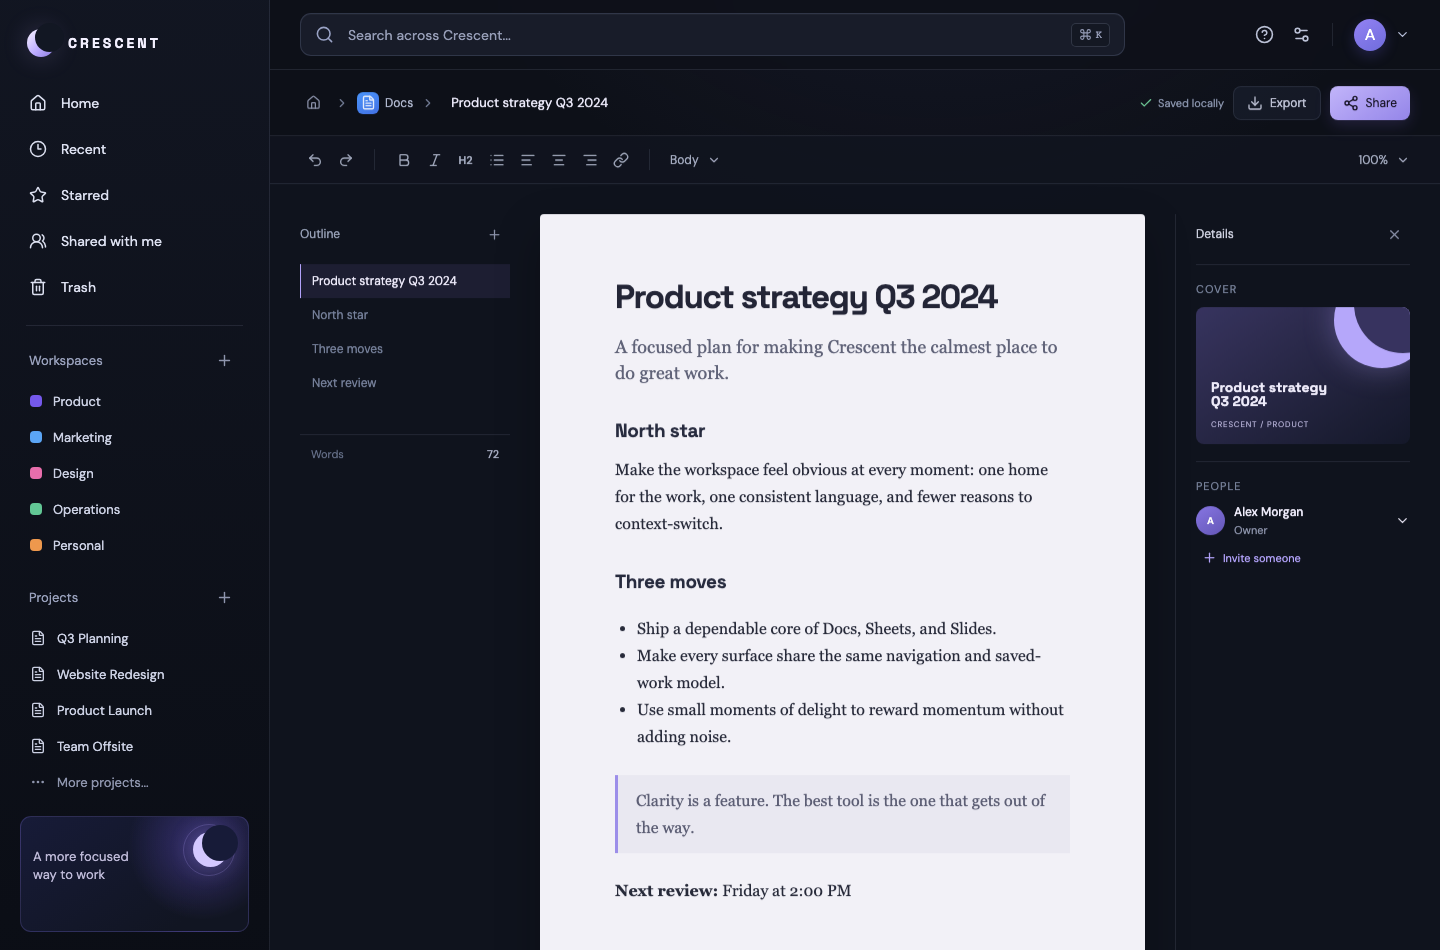
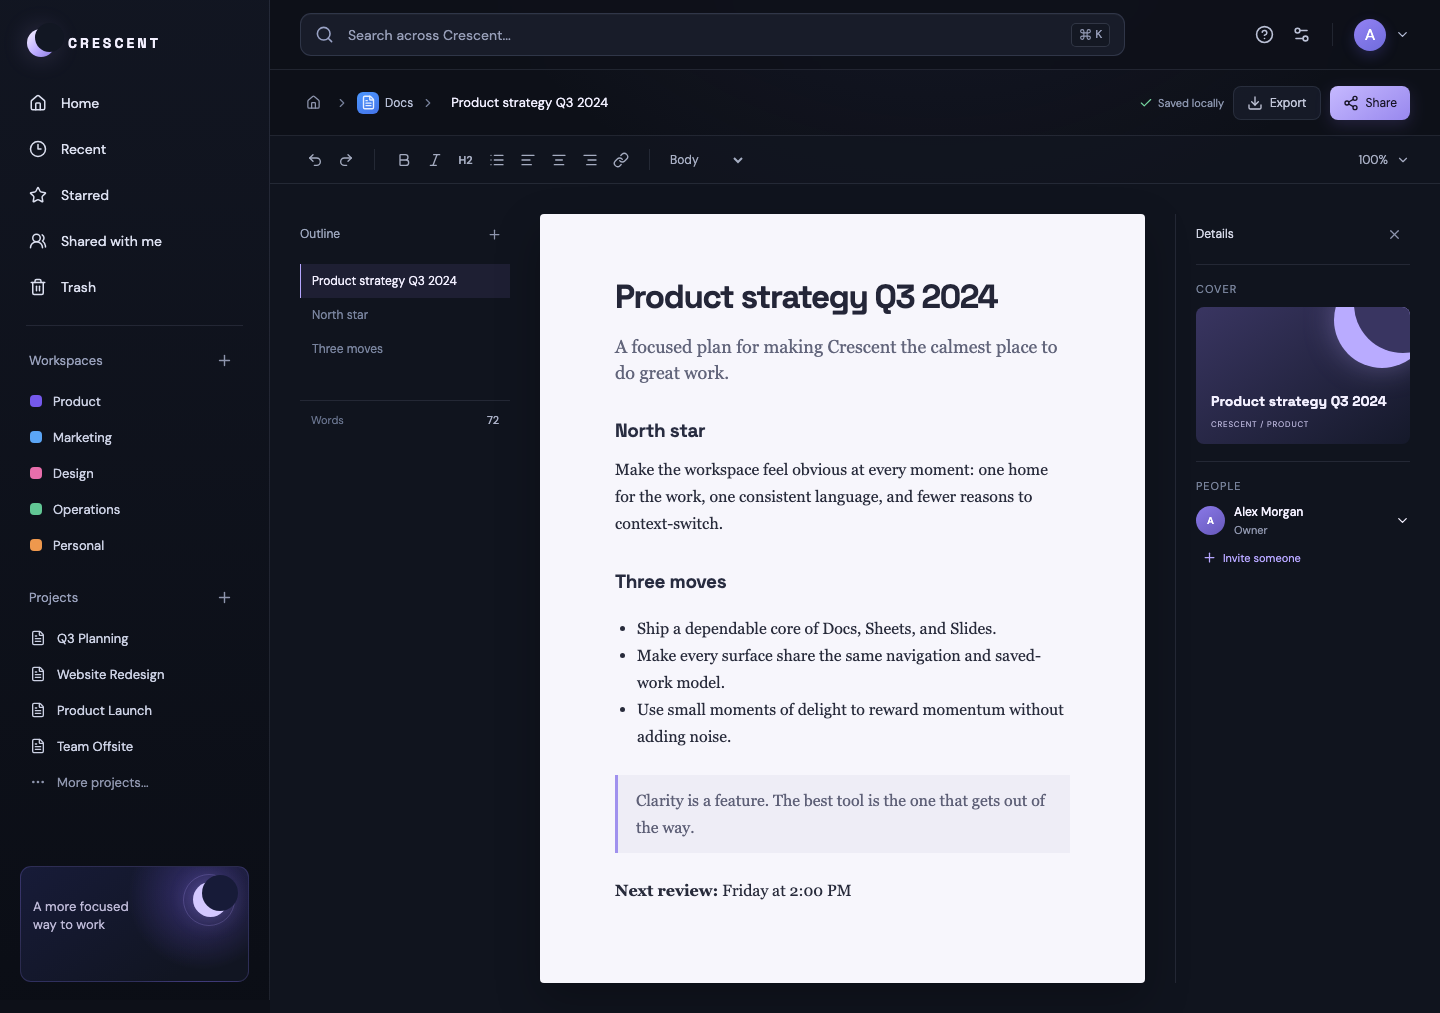
Make Docs text styles actionable

diff --git a/src/App.jsx b/src/App.jsx
@@ -316,6 +316,7 @@ function EditorHeader({ title, icon, onChangeTitle, children, onNavigate }) {
 
 function DocsView({ workspace, update, onNavigate }) {
   const [title, setTitle] = useState(workspace.docs.title);
+  const [blockStyle, setBlockStyle] = useState("p");
   const editorRef = useRef(null);
   const icon = APP_META.find((app) => app.id === "docs");
   const outline = useMemo(() => {
@@ -327,14 +328,14 @@ function DocsView({ workspace, update, onNavigate }) {
   const addSection = () => { const nextBody = `${workspace.docs.body}<h2>New section</h2><p>Start writing the next idea here.</p>`; update({ docs: { ...workspace.docs, title, body: nextBody, updatedAt: "just now" } }); emitNotice("New section added to the document."); };
   useEffect(() => { if (editorRef.current && editorRef.current.innerHTML !== workspace.docs.body) editorRef.current.innerHTML = workspace.docs.body; }, [workspace.docs.body]);
   const updateDoc = (nextBody = editorRef.current?.innerHTML ?? workspace.docs.body) => update({ docs: { ...workspace.docs, title, body: nextBody, updatedAt: "just now" } });
-  const exec = (command, value = undefined) => { editorRef.current?.focus(); document.execCommand(command, false, value); updateDoc(); };
+  const exec = (command, value = undefined) => { editorRef.current?.focus(); document.execCommand(command, false, value); if (command === "formatBlock") setBlockStyle(String(value)); updateDoc(); };
   const exportDocument = () => {
     const body = editorRef.current?.innerHTML ?? workspace.docs.body ?? "";
     const html = `<!doctype html><html lang="en"><head><meta charset="utf-8"><meta name="viewport" content="width=device-width,initial-scale=1"><title>${escapeHtml(title || "Crescent document")}</title><style>body{margin:0;background:#f6f4fb;color:#252238;font:16px/1.7 system-ui,-apple-system,BlinkMacSystemFont,"Segoe UI",sans-serif}.document-export{max-width:760px;margin:64px auto;padding:64px 72px;background:#fff;border-radius:24px;box-shadow:0 18px 60px rgba(43,35,77,.12)}h1{font-size:42px;line-height:1.12;margin:0 0 20px}h2,h3{margin-top:36px;line-height:1.25}p,ul,ol,blockquote{margin:18px 0}blockquote{border-left:3px solid #9d89df;padding-left:20px;color:#665b86;font-style:italic}li{margin:8px 0}@media(max-width:820px){.document-export{margin:0;border-radius:0;padding:40px 24px;min-height:100vh;box-sizing:border-box}}</style></head><body><main class="document-export">${body}</main></body></html>`;
     downloadText(`${safeFileName(title || "crescent-doc")}.html`, html, "text/html");
     emitNotice("Standalone document export downloaded.");
   };
-  return <div className="editor-page page-enter docs-page"><EditorHeader title={title} icon={icon} onChangeTitle={(value) => { setTitle(value); update({ docs: { ...workspace.docs, title: value, updatedAt: "just now" }, starredFiles: renameStarredFile(workspace, workspace.docs.title, value) }); }} onNavigate={onNavigate}><button className="secondary-button" onClick={exportDocument}><Download size={16} />Export</button><button className="primary-button"><Share2 size={16} />Share</button></EditorHeader><div className="editor-subbar"><div className="toolbar-group"><button onClick={() => exec("undo")} aria-label="Undo"><Undo2 size={16} /></button><button onClick={() => exec("redo")} aria-label="Redo"><Redo2 size={16} /></button></div><div className="toolbar-divider" /><div className="toolbar-group"><button onClick={() => exec("bold")} aria-label="Bold"><Bold size={16} /></button><button onClick={() => exec("italic")} aria-label="Italic"><Italic size={16} /></button><button onClick={() => exec("formatBlock", "h2")} aria-label="Heading"><span className="toolbar-text">H2</span></button><button onClick={() => exec("insertUnorderedList")} aria-label="Bullet list"><List size={16} /></button><button onClick={() => exec("justifyLeft")} aria-label="Align left"><AlignLeft size={16} /></button><button onClick={() => exec("justifyCenter")} aria-label="Align center"><AlignCenter size={16} /></button><button onClick={() => exec("justifyRight")} aria-label="Align right"><AlignRight size={16} /></button><button onClick={() => exec("createLink", window.prompt("Link URL") || "")} aria-label="Add link"><Link size={16} /></button></div><div className="toolbar-divider" /><button className="toolbar-select">Body <ChevronDown size={14} /></button><div className="editor-zoom">100% <ChevronDown size={14} /></div></div><div className="doc-workspace"><aside className="doc-outline"><div className="outline-heading"><span>Outline</span><button className="icon-button muted" onClick={addSection} aria-label="Add outline item"><Plus size={15} /></button></div>{outline.map((item, index) => <button className={`outline-link ${index === 0 ? "active" : ""}`} onClick={() => jumpToOutline(item)} key={`${item}-${index}`}>{item}</button>)}<div className="outline-footer"><span>Words</span><strong>{(editorRef.current?.innerText ?? "").trim().split(/\s+/).filter(Boolean).length || 72}</strong></div></aside><article className="document-paper"><div className="document-inner" ref={editorRef} contentEditable suppressContentEditableWarning onInput={() => updateDoc()} onBlur={() => updateDoc()} /></article><aside className="doc-inspector"><div className="inspector-heading"><span>Details</span><button className="icon-button muted" aria-label="Close details"><X size={15} /></button></div><div className="inspector-section"><span className="inspector-label">Cover</span><div className="cover-preview"><div className="cover-moon" /><strong>{title || "Untitled document"}</strong><small>CRESCENT / PRODUCT</small></div></div><div className="inspector-section"><span className="inspector-label">People</span><div className="person-row"><span className="avatar avatar-lilac">A</span><div><strong>Alex Morgan</strong><small>Owner</small></div><ChevronDown size={15} /></div><button className="add-person"><Plus size={15} />Invite someone</button></div></aside></div></div>;
+  return <div className="editor-page page-enter docs-page"><EditorHeader title={title} icon={icon} onChangeTitle={(value) => { setTitle(value); update({ docs: { ...workspace.docs, title: value, updatedAt: "just now" }, starredFiles: renameStarredFile(workspace, workspace.docs.title, value) }); }} onNavigate={onNavigate}><button className="secondary-button" onClick={exportDocument}><Download size={16} />Export</button><button className="primary-button"><Share2 size={16} />Share</button></EditorHeader><div className="editor-subbar"><div className="toolbar-group"><button onClick={() => exec("undo")} aria-label="Undo"><Undo2 size={16} /></button><button onClick={() => exec("redo")} aria-label="Redo"><Redo2 size={16} /></button></div><div className="toolbar-divider" /><div className="toolbar-group"><button onClick={() => exec("bold")} aria-label="Bold"><Bold size={16} /></button><button onClick={() => exec("italic")} aria-label="Italic"><Italic size={16} /></button><button onClick={() => exec("formatBlock", "h2")} aria-label="Heading"><span className="toolbar-text">H2</span></button><button onClick={() => exec("insertUnorderedList")} aria-label="Bullet list"><List size={16} /></button><button onClick={() => exec("justifyLeft")} aria-label="Align left"><AlignLeft size={16} /></button><button onClick={() => exec("justifyCenter")} aria-label="Align center"><AlignCenter size={16} /></button><button onClick={() => exec("justifyRight")} aria-label="Align right"><AlignRight size={16} /></button><button onClick={() => exec("createLink", window.prompt("Link URL") || "")} aria-label="Add link"><Link size={16} /></button></div><div className="toolbar-divider" /><select className="toolbar-select" value={blockStyle} onChange={(event) => exec("formatBlock", event.target.value)} aria-label="Text style"><option value="p">Body</option><option value="h2">Heading</option><option value="blockquote">Quote</option></select><div className="editor-zoom">100% <ChevronDown size={14} /></div></div><div className="doc-workspace"><aside className="doc-outline"><div className="outline-heading"><span>Outline</span><button className="icon-button muted" onClick={addSection} aria-label="Add outline item"><Plus size={15} /></button></div>{outline.map((item, index) => <button className={`outline-link ${index === 0 ? "active" : ""}`} onClick={() => jumpToOutline(item)} key={`${item}-${index}`}>{item}</button>)}<div className="outline-footer"><span>Words</span><strong>{(editorRef.current?.innerText ?? "").trim().split(/\s+/).filter(Boolean).length || 72}</strong></div></aside><article className="document-paper"><div className="document-inner" ref={editorRef} contentEditable suppressContentEditableWarning onInput={() => updateDoc()} onBlur={() => updateDoc()} /></article><aside className="doc-inspector"><div className="inspector-heading"><span>Details</span><button className="icon-button muted" aria-label="Close details"><X size={15} /></button></div><div className="inspector-section"><span className="inspector-label">Cover</span><div className="cover-preview"><div className="cover-moon" /><strong>{title || "Untitled document"}</strong><small>CRESCENT / PRODUCT</small></div></div><div className="inspector-section"><span className="inspector-label">People</span><div className="person-row"><span className="avatar avatar-lilac">A</span><div><strong>Alex Morgan</strong><small>Owner</small></div><ChevronDown size={15} /></div><button className="add-person"><Plus size={15} />Invite someone</button></div></aside></div></div>;
 }
 
 const SHEET_COLS = ["A", "B", "C", "D", "E", "F"];

diff --git a/src/styles.css b/src/styles.css
@@ -219,3 +219,4 @@ input, textarea { color: var(--text); }
 .folder-card.selected { border-color: rgba(197, 185, 255, .58); background: rgba(125, 108, 210, .16); box-shadow: 0 0 0 2px rgba(161, 145, 237, .10); }
 .drive-folder-detail { display: flex; align-items: center; gap: 11px; margin-top: 13px; padding: 12px 14px; border: 1px solid rgba(176, 164, 242, .20); border-radius: 9px; background: rgba(40, 34, 71, .24); }
 .drive-folder-detail > div { display: grid; gap: 3px; flex: 1; min-width: 0; }.drive-folder-detail strong { color: #e9e7f6; font-size: 12px; }.drive-folder-detail small { color: #8d96ad; font-size: 10px; }
+.toolbar-select { min-width: 82px; padding: 3px 2px; border: 0; outline: 0; color: #a7aec3; background: transparent; font: inherit; font-size: 12px; }.toolbar-select option { color: #26283a; background: #fff; }

diff --git a/README.md b/README.md
@@ -4,7 +4,7 @@ An all-in-one productivity workspace built to keep the work in one calm, consist
 
 ## Current release
 
-**v0.1.109 — Sheets formula output is presentation-ready**
+**v0.1.110 — Docs text styles are actionable**
 
 The first release establishes the Crescent product shell and a local-first suite experience:
 
@@ -51,6 +51,8 @@ The first release establishes the Crescent product shell and a local-first suite
 - CI smoke now verifies that a renamed starred Docs record appears under its new title in Starred
 - Slides presentation mode now advances with ArrowRight/Space, moves back with ArrowLeft, and exits with Escape; CI smoke covers the interaction
 - Sheets AVERAGE results now display to two decimals for readable local analysis output
+- Docs’ Body toolbar control is now a real local style selector for Body, Heading, and Quote blocks
+- Refreshed the committed Docs preview after the editor toolbar polish
 - Home reflects saved local calendar events, and Forms keeps its published/response state across navigation
 - Global Search includes locally created tasks, Drive folders, and Calendar events with correct app routing
 - Tasks now filters between All, Today, Open, and Done from the shared editor header

diff --git a/docs/preview/README.md b/docs/preview/README.md
@@ -1,4 +1,4 @@
-# v0.1.109 visual preview
+# v0.1.110 visual preview
 
 These screenshots are committed with Crescent milestones so the product can be reviewed directly from GitHub. The live preview is deployed from `main` through GitHub Pages when Pages is enabled for the repository.
 
